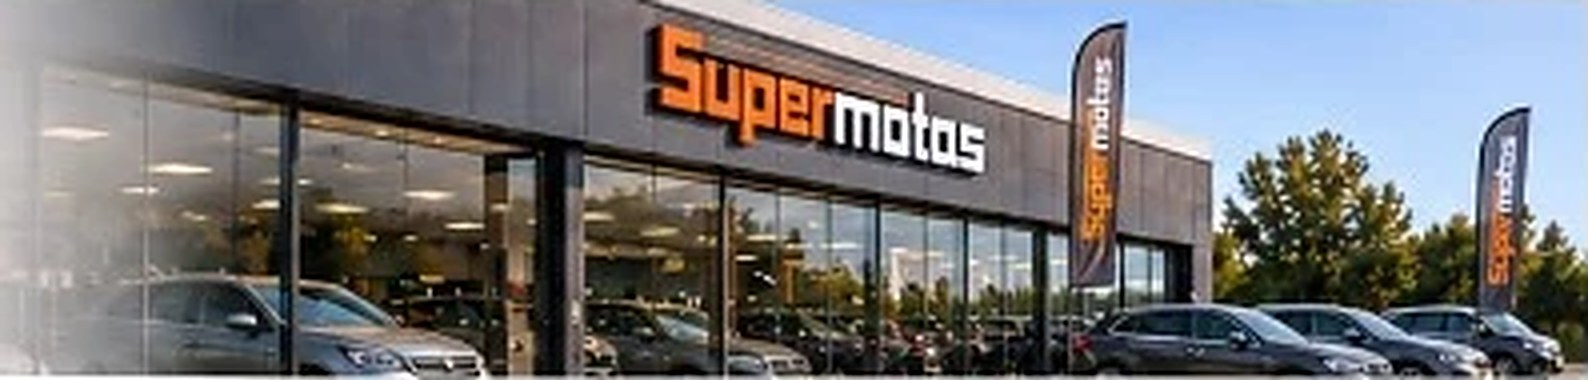
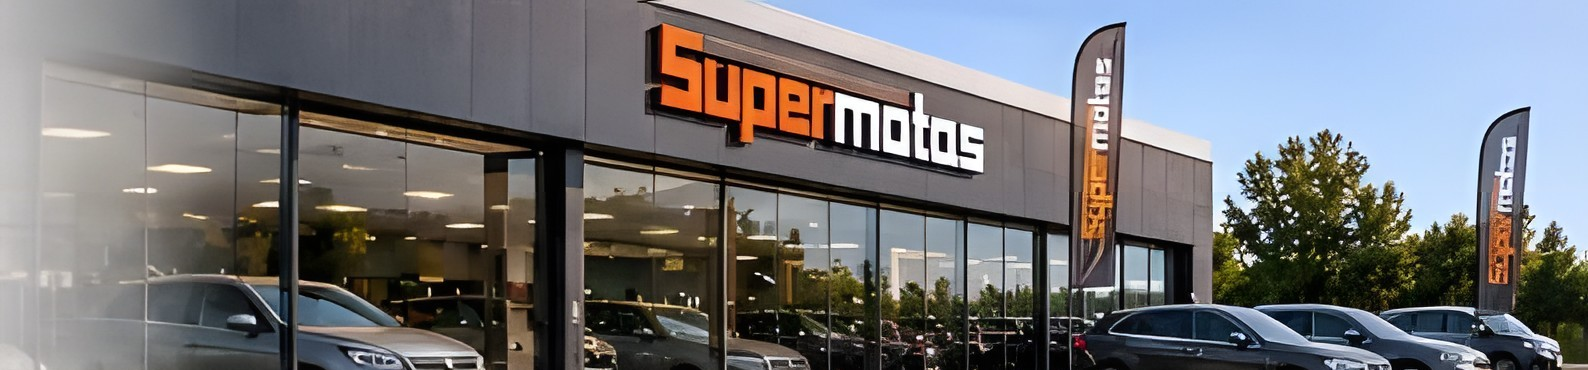
Core3: destaques na página inicial, fotos nítidas e cartão das motas mais acima
- Página inicial: volta «Viaturas em destaque» (como estava) no lugar das
  últimas entradas, com a faixa de serviços por baixo.
- Fotos da loja (topo da página inicial e dos Carros) ampliadas com
  super-resolução (Real-ESRGAN): nítidas, sem píxeis.
- Cartão «Motas»: a foto mostra um pouco mais acima (a mota inteira).

Claude-Session: https://claude.ai/code/session_01SKcT9eC78pRcHSTAod7i5w

diff --git a/src/themes/core3/ui.ts b/src/themes/core3/ui.ts
@@ -1,6 +1,5 @@
-import type { Vehicle } from "@/types/vehicle";
 import type { VehicleType } from "@/lib/vehicle-categories";
-import { kindOf, type StockKind } from "@/themes/core2/stock";
+import type { StockKind } from "@/themes/core2/stock";
 
 /**
  * Tema Core3: textos, endereços e listas das páginas (sem interface, para se
@@ -19,6 +18,12 @@ export interface Core3Category {
   label: string;
   /** A foto do cartão da página inicial. */
   photo: string;
+  /**
+   * Que parte da foto o cartão mostra (classe do Tailwind, escrita por inteiro
+   * para o Tailwind a encontrar). A viatura está à direita e um pouco abaixo do
+   * meio; na das motas sobe-se um pouco, para a mota aparecer inteira.
+   */
+  photoPosition: string;
   /** O título da página («Motas em stock»). */
   title: string;
   /** A frase por baixo do título. */
@@ -32,6 +37,7 @@ const CATEGORIES: Record<StockKind, Omit<Core3Category, "key" | "href">> = {
     short: "Motas",
     label: "Motas",
     photo: "/media/core2/motas.jpg",
+    photoPosition: "object-[85%_40%]",
     title: "Motas em stock",
     subtitle: "Encontre a mota certa com filtros simples e uma navegação clara.",
     hero: null,
@@ -40,6 +46,7 @@ const CATEGORIES: Record<StockKind, Omit<Core3Category, "key" | "href">> = {
     short: "Moto 4",
     label: "Moto 4",
     photo: "/media/core2/moto4.jpg",
+    photoPosition: "object-[85%_60%]",
     title: "Moto 4 em stock",
     subtitle: "Quads e side-by-side prontos para a aventura, com filtros simples.",
     hero: null,
@@ -48,6 +55,7 @@ const CATEGORIES: Record<StockKind, Omit<Core3Category, "key" | "href">> = {
     short: "Carros",
     label: "Automóveis",
     photo: "/media/core2/carros.jpg",
+    photoPosition: "object-[85%_60%]",
     title: "Automóveis em stock",
     subtitle: "Encontre o automóvel certo com filtros simples e uma navegação clara.",
     hero: "/media/core3/carros.jpg",
@@ -70,26 +78,6 @@ export function core3Categories(siteTypes: VehicleType[]): Core3Category[] {
     ...(siteTypes.includes("car") ? (["carros"] as const) : []),
   ];
   return keys.map(categoryOf);
-}
-
-/** As «Últimas entradas»: as mais recentes primeiro (a data de entrada, ou o ano). */
-export function latestEntries<T extends Pick<Vehicle, "createdAt" | "year">>(vehicles: T[], count: number): T[] {
-  const stamp = (v: T) => (v.createdAt ? Date.parse(v.createdAt) || 0 : 0);
-  return [...vehicles].sort((a, b) => stamp(b) - stamp(a) || (b.year || 0) - (a.year || 0)).slice(0, count);
-}
-
-/**
- * As últimas entradas de cada tipo (as `perKind` mais recentes), juntas e por
- * ordem de entrada: o separador «Todos» mostra as mais recentes de todas e
- * cada tipo as suas, sem mandar o stock inteiro para o browser.
- */
-export function latestPerKind<T extends Pick<Vehicle, "createdAt" | "year" | "vehicleType" | "body">>(
-  vehicles: T[],
-  perKind: number,
-): T[] {
-  const sorted = latestEntries(vehicles, vehicles.length);
-  const taken: Record<StockKind, number> = { motas: 0, moto4: 0, carros: 0 };
-  return sorted.filter((v) => taken[kindOf(v)]++ < perKind);
 }
 
 /** A faixa de serviços: o que não depende do backoffice (as retomas, que levam ao «Vender», e a entrega). */

diff --git a/src/app/(public)/(home)/page.tsx b/src/app/(public)/(home)/page.tsx
@@ -33,10 +33,9 @@ import { getSiteTheme } from "@/lib/site-theme-query";
 import { getTheme, type HomeSection } from "@/themes/index";
 import { core2Serif } from "@/themes/core2/fonts";
 import { heroTexts } from "@/themes/core2/ui";
-import { core3Categories, latestPerKind } from "@/themes/core3/ui";
+import { core3Categories } from "@/themes/core3/ui";
 import { Core3Banner } from "@/components/themes/core3/Core3Banner";
 import { Core3Categories } from "@/components/themes/core3/Core3Categories";
-import { Core3Latest } from "@/components/themes/core3/Core3Latest";
 import { Core3Services } from "@/components/themes/core3/Core3Services";
 import { Core3Icon } from "@/components/themes/core3/icons";
 import Link from "next/link";
@@ -108,8 +107,7 @@ export default async function HomePage() {
 
   // Cada secção da página inicial; o tema (Core / Core2) decide a ordem e
   // quais aparecem (src/themes).
-  // Core3: as categorias (a Moto 4 só com alguma em stock), o texto do topo e
-  // as últimas entradas de cada tipo.
+  // Core3: as categorias (Motas, Moto 4, Carros) e o texto do topo.
   const categories = core3Categories(siteTypes);
   const hero3 = heroTexts(siteTypes, categories.some((c) => c.key === "moto4"));
   const sections: Record<HomeSection, React.ReactNode> = {
@@ -128,7 +126,6 @@ export default async function HomePage() {
       </Core3Banner>
     ),
     c3categories: <Core3Categories categories={categories} />,
-    c3latest: <Core3Latest vehicles={latestPerKind(allVehicles, 6)} categories={categories} />,
     c3services: <Core3Services services={showroom.services} />,
     hero: (
       <Hero

diff --git a/src/themes/core3.ts b/src/themes/core3.ts
@@ -5,8 +5,8 @@ import type { ThemeConfig } from "./types";
  * Core3: o site das maquetes da Supermotas. Parte do Core e muda:
  * - o menu (Motas · Moto 4 · Carros · Vender · Contactos · «Ver stock»), com
  *   o deslize entre páginas na ordem do menu;
- * - a página inicial: topo, cartões das categorias, últimas entradas e a faixa
- *   de serviços (os serviços deixam de ter menu), e depois o resto de sempre;
+ * - a página inicial: topo, cartões das categorias, viaturas em destaque e a
+ *   faixa de serviços (os serviços deixam de ter menu), e depois o resto de sempre;
  * - Motas, Moto 4 e Carros: cada uma é o stock do Core2 só desse tipo.
  *
  * O CSS (o stock partilha o do Core2) está em `core2.css` e `core3.css`.
@@ -20,7 +20,7 @@ export const core3: ThemeConfig = {
   homeSections: [
     "c3hero",
     "c3categories",
-    "c3latest",
+    "featured",
     "c3services",
     "brands",
     "stock",

diff --git a/src/components/themes/core3/Core3Categories.tsx b/src/components/themes/core3/Core3Categories.tsx
@@ -20,7 +20,7 @@ export function Core3Categories({ categories }: { categories: Core3Category[] })
             alt=""
             fill
             sizes="(max-width: 768px) 33vw, 30vw"
-            className="object-cover object-[85%_60%] transition-transform duration-500 group-hover:scale-105"
+            className={`object-cover ${c.photoPosition} transition-transform duration-500 group-hover:scale-105`}
           />
           <span aria-hidden className="absolute inset-0 bg-gradient-to-r from-black/55 via-black/20 to-transparent" />
           <span className="relative flex h-full flex-col justify-end gap-1.5 p-3 md:justify-center md:gap-3 md:px-8">

diff --git a/src/themes/types.ts b/src/themes/types.ts
@@ -35,10 +35,9 @@ export type HomeSection =
   | "showroom"
   | "testimonials"
   | "contact"
-  // Core 3: o topo, os cartões das categorias, as últimas entradas e a faixa de serviços.
+  // Core 3: o topo, os cartões das categorias e a faixa de serviços.
   | "c3hero"
   | "c3categories"
-  | "c3latest"
   | "c3services";
 
 /** Os textos fixos do site que cada tema pode dizer de outra forma. */

diff --git a/src/components/themes/core2/Core2Stock.tsx b/src/components/themes/core2/Core2Stock.tsx
@@ -232,7 +232,7 @@ export function Core2Stock({
  * pequena à esquerda; ao lado a marca, o modelo e o ano, duas linhas de dados,
  * o preço e a seta para a ficha.
  */
-export function RowCard({ vehicle: v }: { vehicle: Vehicle }) {
+function RowCard({ vehicle: v }: { vehicle: Vehicle }) {
   const cover = v.images[0];
   const [line1, line2] = rowLines(v);
   return (
